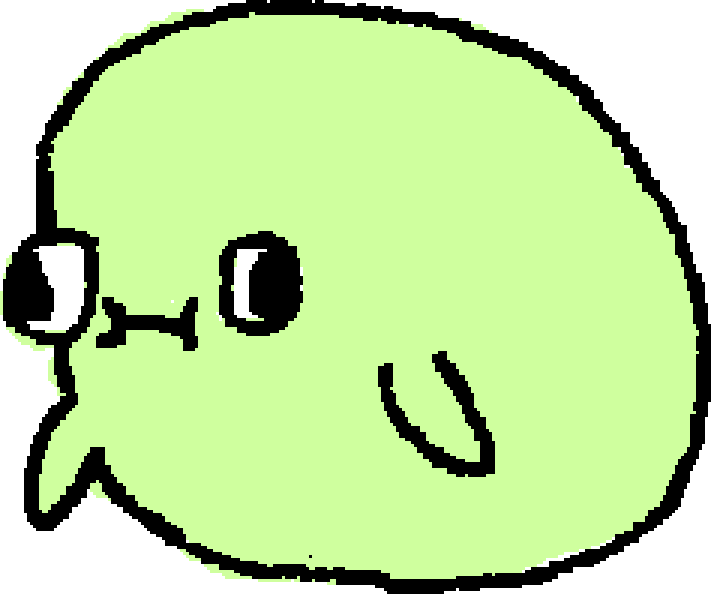
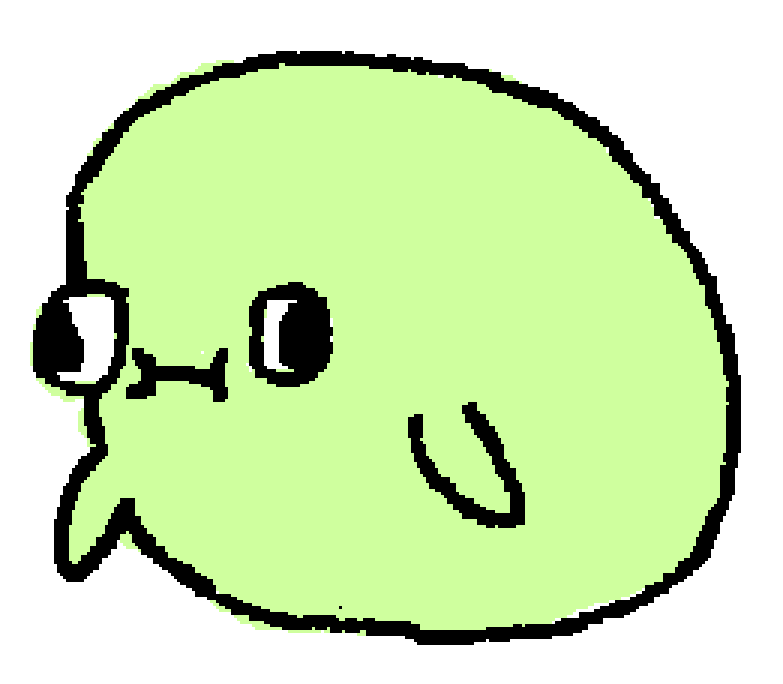
adding extra breath to tully to follow sigh breathing

Changed region(s): [[0.0, 0.0, 1.0, 1.0], [0.4951, 0.5758, 0.7117, 0.8182]]

diff --git a/src/session/breathing/tully-cycle.ts b/src/session/breathing/tully-cycle.ts
@@ -7,17 +7,22 @@
  * little further from the circle every cycle. So the mapping is plain data in a
  * file with no React Native in it, and a test asserts the tiling.
  *
- * All six drawings are distinct inflations, in a clean ramp from emptiest to
- * fullest, and only the inhale was drawn. So the breath climbs the ramp and
- * then walks back down it, and four of the six are used twice — once on the
- * way up, once on the way down. That is why the pose names below describe an
- * inflation rather than a moment in the breath: `risen` is one drawing whether
- * the chest is filling or emptying, and it is the cycle that says which.
+ * The nine drawings are seven inflations, because two of them come in pairs:
+ * `brim`/`sip` are one size and `crest`/`peak` are another, each pair drawn
+ * once with the eyes open and once shut. That is the whole trick of the second
+ * inhale — Tully can close their eyes without changing size, and change size
+ * without opening them, so the top-up reads as a decision rather than as more
+ * of the same swelling.
  *
- * The two drawings with the eyes open are the two ends of the ramp, and they
- * land on the two phases where nothing is being asked — `bottom` on the rest
- * and `peak` on the hold. Tully looks back at you at the floor and at the top,
- * and has their eyes shut through the work in between.
+ * Only the way up was drawn. The exhale walks the same drawings back down, so
+ * the pose names describe an inflation rather than a moment in the breath:
+ * `risen` is one drawing whether the chest is filling or emptying, and it is
+ * the cycle below that says which.
+ *
+ * The three drawings with the eyes open are `bottom`, `brim` and `peak` — the
+ * floor, the top of the first inhale, and the top of the second. Tully looks at
+ * you at each of those and has their eyes shut for the work in between, which
+ * is why the descent skips `brim`: see `TULLY_CYCLE`.
  */
 
 import { BREATHING, TULLY } from '@/config/session';
@@ -33,12 +38,25 @@ export const POSE = {
   risen: 2,
   swelling: 3,
   full: 4,
-  /** Fullest, eyes open. The beat at the top. */
-  peak: 5,
+  /** Top of the first inhale, eyes open. Same size as `sip`. */
+  brim: 5,
+  /** `brim` with the eyes shut — the second inhale starting. */
+  sip: 6,
+  /** Fullest, eyes shut. What the top-up reaches. */
+  crest: 7,
+  /** `crest` with the eyes open. The beat at the top. */
+  peak: 8,
 } as const;
 
 /** How many poses exist, and so how many the cycle has to account for. */
 export const POSE_COUNT = Object.keys(POSE).length;
+
+/**
+ * The drawings Tully was given open eyes in. They are the three still points of
+ * the breath, and the exhale is defined against this set rather than against a
+ * list of pose numbers — so a drawing added later is placed by what it depicts.
+ */
+export const EYES_OPEN: ReadonlySet<number> = new Set([POSE.bottom, POSE.brim, POSE.peak]);
 
 export interface PoseBeat {
   /** An index into `TULLY_FRAMES`. */
@@ -55,21 +73,29 @@ const beats = (poses: readonly number[], durations: readonly number[]): readonly
  * `CYCLE` it has just entered without the two lists having to be kept in the
  * same order by hand.
  *
- * The hold is one beat, not two: `peak` has the whole of it, so the top of the
- * breath is one unbroken beat on the last drawing rather than a glimpse of it
- * followed by Tully starting to sag while the user is still holding. Nothing
- * moves until the exhale actually begins.
+ * The second inhale is the phase this was all drawn for. It is the shortest in
+ * the cycle and it used to be a single pose, which made it the one moment
+ * Tully was not visibly doing what the user was being asked to do. Now it runs
+ * `sip → crest → peak`: eyes shut at the size the first inhale left them,
+ * a real swell, then eyes open at the top. Three beats inside 700ms is fast,
+ * and meant to be — it is a snatched breath, not a second slow one.
  *
- * Which is why `full` heads the exhale. It is a smaller drawing than `peak`, so
- * that first beat is a visible letting-go on the boundary itself — the release
- * lands with the cue rather than ahead of it.
+ * The exhale skips `brim`, which is the rule Tully's face sets rather than an
+ * omission. The descent is the working half of the breath and Tully keeps their
+ * eyes shut through it, and `brim` is the eyes-open drawing of a size the
+ * eyes-shut `sip` already covers — so dropping it costs the descent no step of
+ * inflation at all. It only removes a blink that would read as Tully checking
+ * on you halfway through their own exhale.
  */
 export const TULLY_CYCLE = {
-  'inhale-1': beats([POSE.rising, POSE.risen, POSE.swelling], TULLY.poseMs.firstInhale),
-  'inhale-2': beats([POSE.full], TULLY.poseMs.secondInhale),
+  'inhale-1': beats(
+    [POSE.rising, POSE.risen, POSE.swelling, POSE.full, POSE.brim],
+    TULLY.poseMs.firstInhale,
+  ),
+  'inhale-2': beats([POSE.sip, POSE.crest, POSE.peak], TULLY.poseMs.secondInhale),
   hold: beats([POSE.peak], TULLY.poseMs.hold),
   exhale: beats(
-    [POSE.full, POSE.swelling, POSE.risen, POSE.rising, POSE.bottom],
+    [POSE.crest, POSE.sip, POSE.full, POSE.swelling, POSE.risen, POSE.rising, POSE.bottom],
     TULLY.poseMs.exhale,
   ),
   rest: beats([POSE.bottom], TULLY.poseMs.rest),

diff --git a/src/session/breathing/tully-cycle.test.ts b/src/session/breathing/tully-cycle.test.ts
@@ -2,6 +2,7 @@ import { describe, expect, it } from 'vitest';
 
 import { BREATH_CYCLE_MS } from '@/config/session';
 import {
+  EYES_OPEN,
   LEAD_IN_POSE,
   PHASE_MS,
   POSE,
@@ -12,6 +13,13 @@ import {
 
 const phases = Object.keys(TULLY_CYCLE) as (keyof typeof TULLY_CYCLE)[];
 const total = (bs: readonly PoseBeat[]) => bs.reduce((sum, b) => sum + b.ms, 0);
+
+/** The cycle split at the top, into the climb and the descent. */
+const halves = (): [number[], number[]] => {
+  const order = [LEAD_IN_POSE, ...phases.flatMap((p) => TULLY_CYCLE[p].map((b) => b.pose))];
+  const top = order.indexOf(POSE.peak);
+  return [order.slice(0, top + 1), order.slice(top)];
+};
 
 describe('the Tully cycle', () => {
   // The one that matters. Every other assertion here is a way of finding out
@@ -30,7 +38,7 @@ describe('the Tully cycle', () => {
     for (const beat of TULLY_CYCLE[phase]) expect(beat.ms).toBeGreaterThan(0);
   });
 
-  it('uses all six drawings', () => {
+  it('uses all nine drawings', () => {
     const used = new Set(phases.flatMap((p) => TULLY_CYCLE[p].map((b) => b.pose)));
     expect(used.size).toBe(POSE_COUNT);
   });
@@ -56,23 +64,39 @@ describe('the Tully cycle', () => {
     expect(order.at(-1)).toBe(LEAD_IN_POSE);
   });
 
-  // Only the inhale was drawn. The exhale is those drawings played backwards,
-  // and this is the assertion that keeps it that way — the whole cycle has to
-  // read as one ramp climbed and then descended, with no drawing appearing on
-  // the way down that was not on the way up.
+  // Only the way up was drawn. The exhale replays those drawings backwards, and
+  // this is the assertion that keeps it that way — the whole cycle has to read
+  // as one ramp climbed and then descended.
   it('climbs to the peak and comes back down the same drawings', () => {
     // Read with the resting pose in front: the cycle joins onto itself at
     // `bottom`, so the first inhale starts one drawing up from the floor and
     // the ramp is only whole once the rest before it is counted.
-    const order = [LEAD_IN_POSE, ...phases.flatMap((p) => TULLY_CYCLE[p].map((b) => b.pose))];
-    const top = order.indexOf(POSE.peak);
-
-    const up = order.slice(0, top + 1);
-    const down = order.slice(top);
+    const [up, down] = halves();
 
     expect(up).toStrictEqual([...up].sort((a, b) => a - b));
     expect(down).toStrictEqual([...down].sort((a, b) => b - a));
-    // Mirrored, not merely monotonic: the way down draws nothing new.
-    expect(new Set(down)).toStrictEqual(new Set(up));
+    // Nothing new on the way down. Not set equality — the descent is allowed to
+    // leave a drawing out, and does; see the two tests below.
+    for (const pose of down) expect(up).toContain(pose);
+  });
+
+  // The rule that lets the descent skip anything. Tully works with their eyes
+  // shut, so the only open-eyed drawing the exhale may show is the one it comes
+  // to rest on.
+  it('keeps Tully\'s eyes shut all the way down', () => {
+    const exhale = TULLY_CYCLE.exhale.map((b) => b.pose);
+    for (const pose of exhale.slice(0, -1)) expect(EYES_OPEN).not.toContain(pose);
+    expect(exhale.at(-1)).toBe(POSE.bottom);
+  });
+
+  // And the reason skipping is free: `brim` is the only drawing the descent
+  // leaves out, and `sip` is the same inflation with the eyes shut, so the way
+  // down loses a blink rather than a step of the breath.
+  it('gives up no inflation by skipping brim', () => {
+    const [up, down] = halves();
+    const skipped = up.filter((pose) => !down.includes(pose));
+
+    expect(skipped).toStrictEqual([POSE.brim]);
+    expect(down).toContain(POSE.sip);
   });
 });

diff --git a/src/config/session.ts b/src/config/session.ts
@@ -92,27 +92,30 @@ export const BREATH_CYCLES = Math.max(
 /**
  * Tully, who breathes along with the circle.
  *
- * He is drawn, not animated: six poses, and the breath is which one is on
+ * Tully is drawn, not animated: nine poses, and the breath is which one is on
  * screen. `poseMs` gives each pose its share of the phase it belongs to — one
  * array per phase, in cycle order, and each array has to sum to that phase's
  * duration above. `tully-cycle.test.ts` holds that invariant, because the
  * failure mode of breaking it is Tully quietly falling out of step with the
  * circle rather than anything throwing.
  *
- * Only the inhale was drawn. The exhale is the same six poses walked back down,
- * which is why the counts below are lopsided in the way they are: the inhale
- * spends four beats climbing the ramp, and the exhale spends five coming back
- * down over more than twice the time. Slower on the way down is the point —
- * the exhale is the long phase, and a Tully who finished deflating early would
- * leave the user still breathing out at a Tully who had stopped.
+ * Only the way up was drawn. The exhale walks the same poses back down, which
+ * is why the counts below are lopsided in the way they are: eight beats climb,
+ * and seven come back down over more than twice the time. Slower on the way
+ * down is the point — the exhale is the long phase, and a Tully who finished
+ * deflating early would leave the user still breathing out at a Tully who had
+ * stopped.
+ *
+ * `secondInhale` is the tight one: three beats inside 700ms, which is roughly
+ * twice the shimmer rate below. That is the fastest anything here moves, and it
+ * is deliberate — the top-up is a snatched breath, and drawn at first-inhale
+ * pace it would read as one long inhale with a stumble in it. If it ever needs
+ * to breathe more, `BREATHING.secondInhaleMs` is the number to move, not this
+ * one; these only decide how that phase is divided up.
  *
  * The hold is a single beat on purpose. Splitting it would start Tully
  * deflating during the phase whose whole job is that nothing moves, so the top
  * drawing keeps all of it and the first step down belongs to the exhale.
- *
- * The two drawings with open eyes are the ends of the ramp, so they land on
- * `hold` and `rest` — the beats where nothing is being asked, and Tully can
- * look back at you.
  */
 export const TULLY = {
   /**
@@ -122,10 +125,10 @@ export const TULLY = {
    */
   shimmerMs: 120,
   poseMs: {
-    firstInhale: [850, 850, 800],
-    secondInhale: [700],
+    firstInhale: [500, 500, 500, 500, 500],
+    secondInhale: [235, 235, 230],
     hold: [1_500],
-    exhale: [1_150, 1_200, 1_250, 1_300, 1_300],
+    exhale: [800, 850, 880, 900, 900, 920, 950],
     rest: [1_000],
   },
 } as const;

diff --git a/src/session/breathing/tully-frames.ts b/src/session/breathing/tully-frames.ts
@@ -1,7 +1,7 @@
 /**
  * The artwork, indexed the way `tully-cycle.ts` addresses it.
  *
- * Outer index is the pose (0–5, matching `POSE`); inner index is which of the
+ * Outer index is the pose (0–8, matching `POSE`); inner index is which of the
  * three hand-drawn outlines is showing. The three are the same pose redrawn —
  * the wobble that keeps a still Tully from looking like a sticker — so they are
  * interchangeable at any moment and the shimmer can run on its own clock.
@@ -16,7 +16,7 @@
  *
  *  - keyed — transparency flood-filled in from the canvas edge, which leaves
  *    the enclosed white of the eyes and the muzzle alone;
- *  - cropped to the union of all eighteen frames' bounds. One crop for the
+ *  - cropped to the union of all twenty-seven frames' bounds. One crop for the
  *    whole set, never per-frame: Tully inflates up and to the right out of a
  *    fixed corner, so cropping each frame to its own bounds would re-centre
  *    every pose separately and make Tully jump as the breath changed them. The
@@ -24,11 +24,14 @@
  *  - scaled 3× with nearest-neighbour, so the hard pixel edges survive being
  *    drawn at roughly 1:1 on a 3× screen instead of being resampled to mush.
  *
- * The result is 711×594 — an aspect of 1.2, so `BreathingTully` draws it inside
+ * The result is 783×684 — an aspect of 1.15, so `BreathingTully` draws it inside
  * a square with `contain` and leaves a little spare above and below. If the art
  * is ever re-exported with real alpha at a higher resolution, the crop and the
  * key stop being needed, but the union-crop rule still applies: whatever lands
- * here has to share one canvas across all eighteen frames.
+ * here has to share one canvas across every frame. Adding a pose that reaches
+ * further than the current widest is not a matter of dropping files in — the
+ * union grows, so the whole set has to be re-cropped together or the poses
+ * drawn against the old canvas will sit at a different scale.
  */
 
 export const TULLY_FRAMES = [
@@ -61,6 +64,21 @@ export const TULLY_FRAMES = [
     require('../../../assets/tully/pose-6-a.png'),
     require('../../../assets/tully/pose-6-b.png'),
     require('../../../assets/tully/pose-6-c.png'),
+  ],
+  [
+    require('../../../assets/tully/pose-7-a.png'),
+    require('../../../assets/tully/pose-7-b.png'),
+    require('../../../assets/tully/pose-7-c.png'),
+  ],
+  [
+    require('../../../assets/tully/pose-8-a.png'),
+    require('../../../assets/tully/pose-8-b.png'),
+    require('../../../assets/tully/pose-8-c.png'),
+  ],
+  [
+    require('../../../assets/tully/pose-9-a.png'),
+    require('../../../assets/tully/pose-9-b.png'),
+    require('../../../assets/tully/pose-9-c.png'),
   ],
 ] as const;
 

diff --git a/src/session/breathing/breathing-guide.tsx b/src/session/breathing/breathing-guide.tsx
@@ -13,7 +13,7 @@
  * thread; only the four transitions per cycle cross back.
  *
  * Tully, on the top half, is driven from the same machine. They are drawn rather
- * than animated — six poses, and the breath is which one is showing — so they
+ * than animated — nine poses, and the breath is which one is showing — so they
  * cannot be interpolated the way the circle is, and they need their own beats
  * inside each phase. Those come from `tully-cycle.ts` and are scheduled off the
  * phase's own start below, so the two halves cannot drift apart no matter how
@@ -66,7 +66,7 @@ const MAX_DIAMETER = 260;
  * Tully, bounded on the same two axes as the circle so the pair keep their
  * relative sizes on any screen rather than one of them hitting a cap first.
  *
- * Sized as a square, and the artwork's 1.2 aspect means `contain` fits them to
+ * Sized as a square, and the artwork's 1.15 aspect means `contain` fits them to
  * the width and leaves the spare above and below. That spare is what they grow
  * into: the union crop is sized for their fullest pose, so at the bottom of the
  * breath they are a good deal shorter than the box. Deliberately smaller than
@@ -184,7 +184,7 @@ export function BreathingGuide({ onDone }: BreathingGuideProps) {
     const cycles = BREATH_CYCLES;
     let index = 0;
     let timeout: ReturnType<typeof setTimeout> | undefined;
-    // Tully's beats inside the current phase. At most four are ever pending,
+    // Tully's beats inside the current phase. At most six are ever pending,
     // and they are replaced wholesale on every phase change.
     let poseTimers: ReturnType<typeof setTimeout>[] = [];
     let cancelled = false;
@@ -293,7 +293,7 @@ export function BreathingGuide({ onDone }: BreathingGuideProps) {
           directly over the circle below — the two share a centre line, so the
           screen reads as one column rather than two stacked things.
 
-          The artwork's canvas is identical across all six poses, so Tully
+          The artwork's canvas is identical across all nine poses, so Tully
           grow up and out of a fixed footprint as the breath fills them instead
           of shifting around as the pose changes. */}
       <View style={styles.tullyHalf}>

diff --git a/src/session/breathing/breathing-tully.tsx b/src/session/breathing/breathing-tully.tsx
@@ -2,9 +2,10 @@
  * Tully, drawn at whichever pose the breath has reached.
  *
  * Two clocks, deliberately unrelated. The pose comes down as a prop from the
- * phase machine in `breathing-guide.tsx`, so it changes ten times a cycle on
- * the same boundaries the circle and the haptics use. The shimmer — which of
- * the three outlines of that pose is showing — runs here on its own interval,
+ * phase machine in `breathing-guide.tsx`, so it changes fifteen times a cycle
+ * on the same boundaries the circle and the haptics use. The shimmer — which
+ * of the three outlines of that pose is showing — runs here on its own
+ * interval,
  * because it is not part of the breath. It is the thing that keeps Tully from
  * reading as a static image during the seconds they spend at the bottom, and
  * tying it to the breath would make those seconds still.
@@ -29,7 +30,7 @@ interface BreathingTullyProps {
   pose: number;
   /**
    * Side of the square Tully is drawn inside. The artwork is cropped to an
-   * aspect of 1.2, so `contain` fits them to the width and leaves a little
+   * aspect of 1.15, so `contain` fits them to the width and leaves a little
    * spare above and below.
    */
   size: number;
